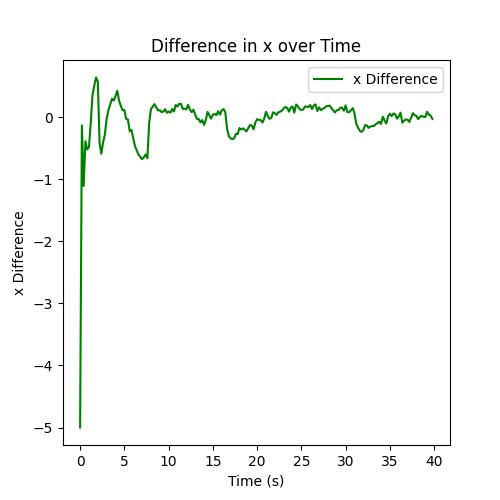
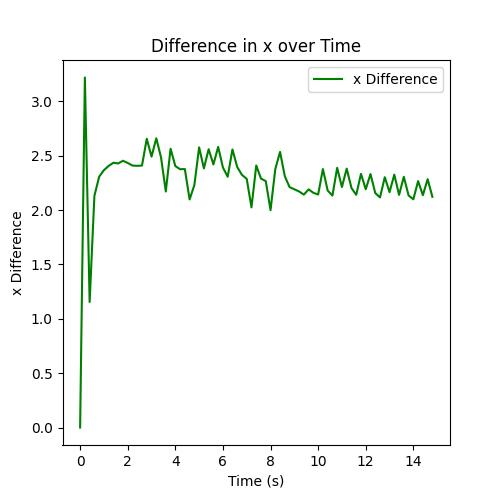
add tighten constraint

diff --git a/Controller/simple_rmpc.py b/Controller/simple_rmpc.py
@@ -1,0 +1,179 @@
+"""Here, tighten the constraints for the system
+"""
+from casadi import *
+import numpy as np
+from scipy.linalg import solve_discrete_are,sqrtm
+from scipy.stats import norm
+# using np to calculate the LQR gain
+def calculate_Dlqr(A,B,Q,R):
+    """return LQR gain matrix
+
+    Args:
+        A B (np.array): state dynamics
+        Q R (np.array): cost matrix
+
+    Returns:
+        _type_: _description_
+    """
+    P=solve_discrete_are(A,B,Q,R)
+    temp=np.linalg.inv(B.T@P@B+R)
+    k=-temp@(B.T@P@A)
+    return P,k
+
+#calculate the system dynamics: X_next=A*X+B*U
+def calculate_system_dynamics(A,B,X,U):
+    """calculate the system dynamics: X_next=A*X+B*U
+
+    Args:
+        A B (np.array): state dynamics
+        X U (np.array): state and control input
+
+    Returns:
+        _type_: _description_
+    """
+    #check the dimension of x is 4X1 and u is 2X1
+    assert A.shape==(4,4)
+    assert B.shape==(4,2)
+    assert X.shape==(4,1)
+    assert U.shape==(2,1)
+    X_next=A@X+B@U
+    return X_next
+
+# calculate the system dynamics for N steps
+def calculate_system_dynamics_N(A,B,X,U,N):
+    """calculate the system dynamics for N steps
+
+    Args:
+        A B (np.array): state dynamics
+        X U (np.array): state and control input
+        N (int): predict horizon
+
+    Returns:
+        _type_: _description_
+    """
+    X_next=calculate_system_dynamics(A,B,X,U)
+    for i in range(N-1):
+        X_next=calculate_system_dynamics(A,B,X_next,U)
+    return X_next
+
+
+def calculate_P_next(A,B,K,P0,process_noise):
+    """calculate the P_next
+
+    Args:
+        A B (np.array): state dynamics
+        K (np.array): dlqr gain
+        P0 (np.array): covariance
+        process_noise (np.array): process noise
+
+    Returns:
+        _type_: _description_
+    """
+    assert A.shape==(4,4)
+    assert B.shape==(4,2)
+    assert P0.shape==(4,4)
+    assert process_noise.shape==(4,4)
+    P_next=(A+B@K)@P0@(A+B@K).T+process_noise
+    return P_next
+
+#calculate the P_next for N steps
+def calculate_P_next_N(A,B,K,P0,process_noise,N):
+    """calculate the P_next for N steps
+
+    Args:
+        A B (np.array): state dynamics
+        K (np.array): dlqr gain
+        P0 (np.array): covariance
+        process_noise (np.array): process noise
+        N (int): predict horizon
+
+    Returns:
+        _type_: _description_
+    """
+    assert A.shape==(4,4)
+    assert B.shape==(4,2)
+    assert P0.shape==(4,4)
+    assert process_noise.shape==(4,4)
+    P_next=calculate_P_next(A,B,K,P0,process_noise)
+    for i in range(N-1):
+        P_next=calculate_P_next(A,B,K,P_next,process_noise)
+    return P_next
+
+# calculate the new upper bound for the constraints
+def tightened_bound(sigma,h,b):
+    """with φ^-1 the inverse cumulative distribution function of the standard normal distribution
+
+    Args:
+        sigma (np.array): corvariance
+        h,b (np.array): hx<=b
+    """
+    assert sigma.shape==(4,4)
+    # calculate the tightening term
+    temp=sqrtm(h.T@sigma@h)@norm.ppf(Possibilty)
+    tighten_bound=b-temp
+    return tighten_bound
+
+#calculate the Nth tighten bound
+def tighten_bound_N(sigma,h,b,N):
+    """calculate the Nth tighten bound
+
+    Args:
+        sigma (np.array): corvariance
+        h,b (np.array): hx<=b
+        N (int): predict horizon
+    """
+    # calculate the tightening term
+    for i in range(N):
+        sigma=calculate_P_next(A,B,K,sigma,process_noise)
+        # print("eig value of sigma is:",np.linalg.eigvals(sigma))
+    tighten_bound=tightened_bound(sigma,h,b)
+    return tighten_bound
+
+
+
+
+nx=4
+nu=2
+#! P0 here is converged  kf covariance
+#! A,B here is the linearized system, and the system is constant velocity model at x=0,y=0, v=10m/s, theta=0
+x0=np.array([[0],[0],[10],[0]])
+P0 = np.array([[0.002071893043635329, -9.081755508401041e-07, 6.625835814018275e-06, 3.5644803460420476e-06],
+            [-9.081755508401084e-07, 0.0020727698104820867, -1.059020050149629e-05, 2.218506297137566e-06], 
+            [6.625835814018292e-06, -1.0590200501496282e-05, 0.0020706909538251504, 5.4487618678242517e-08], 
+            [3.5644803460420577e-06, 2.2185062971375356e-06, 5.448761867824289e-08, 0.002071025561957967]])
+
+print("check the eig value of P0", numpy.linalg.eigvals(P0))
+A=np.array([[1.0, 0.0, -0.15072664142860284, -0.0038424017710879006], 
+            [0.0, 1.0, 0.13145904139180914, -0.004405572320044926], 
+            [0.0, 0.0, 1.0, 0.0], 
+            [0.0, 0.0, 0.0008723107079130039, 1.0]])
+B=np.array([[0.0, 0.0], 
+            [0.0, 0.0], 
+            [0.0, 0.2], 
+            [0.017606115703087965, 0.0]])
+D=np.eye(nx)  # noise matrix
+Q=np.eye(nx)  # cost matrix
+R=np.eye(nu)  # cost matrix  for input
+process_noise=np.eye(4)*0.05**2  # process noise
+# noise here should check with erik
+process_noise[0,0]=0.5  # x bound is [0, 3]
+# process_noise[1,1]=0.01  # y bound is [0, 0.1]
+process_noise[2,2]=1.8/6  # v bound is [0, 1.8]
+# process_noise[3,3]=0.01  # psi bound is [0, 0.05]
+# Predict Horizon
+N=8
+# calcuate the dlqr gain
+_,K=calculate_Dlqr(A,B,Q,R)
+
+
+# stochastic mpc parameters
+Possibilty=np.ones([4,1])*0.8
+#calculate the X_next_N
+X_next_N=calculate_system_dynamics_N(A,B,x0,np.zeros([2,1]),N)
+# initial upper bound of the constraints
+h=np.eye(nx)
+b=np.array([[5000],[1.75],[30],[3.14/8]])  #no limit to the x, y should be in [-1.75, 1.75], v should be in [0,30], psi should be in [-3.14/8,3.14/8]
+#tighten the bound
+tighten_bound=tighten_bound_N(P0,h,b,N)
+print("the bound before tighten is:\n",b)
+print("tightened bound is:\n", tighten_bound_N(P0,h,b,N))

diff --git a/Test_func/test_kf_carla.py b/Test_func/test_kf_carla.py
@@ -20,30 +20,33 @@ from casadi import DM
 from vehicleModel.vehicle_model import car_VehicleModel
 from kalman_filter.kalman_filter import kalman_filter
 from util.utils import get_state, setup_carla_environment,plot_paths,plot_diff
-
+#save matrix to json file
+import os
+import json
 # ----------------- Carla Settings ------------------------
 #! set the initial position of the car and truck
 import carla
-car,truck = setup_carla_environment(Sameline_ACC=False)
+car,truck = setup_carla_environment(Sameline_ACC=True)
 velocity1 = carla.Vector3D(10, 0, 0)
 velocity2 = carla.Vector3D(15, 0, 0)
 
 #get initial state of truck and car,x,y,psi,v, shown seoerately
 #! uncomment the following lines to get the initial state of the car and truck
 #------------------get the initial state of the car and truck---------------------
-# time.sleep(1)
+time.sleep(1)
+car.set_target_velocity(velocity1)
 # truck_state = get_state(truck)
 # car_state = get_state(car)
 # print("truck_state is:","x:",truck_state[0],"y:",truck_state[1],"psi:",truck_state[2],"v:",truck_state[3])
 # print("car_state is:","x:",car_state[0],"y:",car_state[1],"psi:",car_state[2],"v:",car_state[3])
 # exit()
 #---------------------------------------------------------------------------------
-car.set_target_velocity(velocity2)
-car.apply_control(carla.VehicleControl(throttle=0.0, steer=0.5, brake=0))
+
+# car.apply_control(carla.VehicleControl(throttle=0.0, steer=0.0, brake=0))
 # System initialization 
 dt = 0.2
 N=10
-end_time = 40
+end_time = 15
 t_axis = np.arange(0, end_time, dt)
 # ----------------- Ego Vehicle Dynamics and Controller Settings ------------------------
 car_model = car_VehicleModel(dt,N, width = 2, length = 4)
@@ -52,7 +55,7 @@ int_opt = 'rk'
 car_model.integrator(int_opt,dt)
 F_x_ADV  = car_model.getIntegrator()
 vx_init_ego = 10   
-car_model.setInit([124,143.318],vx_init_ego)
+car_model.setInit([124-75,143.318146],vx_init_ego)
 x_iter = DM(int(nx),1)
 # get initial state and input
 x_iter[:],u_iter = car_model.getInit()
@@ -65,13 +68,13 @@ H=np.eye(nx)   #measurement matrix, y=H@x_iter
 
 # initial state and control input
 print(x_iter)
-x0=x_iter+5
+x0=x_iter
 print(x0)
-u_iter+=np.array([3.14/180,0.7*9.81])
+u_iter+=np.array([0,0])
 u0=u_iter
-sigma_process=0.1
-sigma_measurement=0.05
-P0=np.eye(nx)*(sigma_process)**4
+sigma_process=0.01
+sigma_measurement=0.01
+P0=np.eye(nx)*(100*sigma_process)**4
 Q0=np.eye(nx)*sigma_process**2
 R0=np.eye(nx)*sigma_measurement**2
 # initial the Kalman Filter
@@ -84,10 +87,14 @@ true_x = []
 true_x.append(float(x_iter[0]))
 true_y = []
 true_y.append(float(x_iter[1]))
+nominal_x = [float(x0[0])]
+nominal_y = [float(x0[1])]
 estimated_x = [float(x0[0])]
 estimated_y = [float(x0[1])]
-x_difference = [true_x[-1]-estimated_x[-1]]
-y_difference = [true_y[-1]-estimated_y[-1]]
+x_difference = [abs(nominal_x[-1]-estimated_x[-1])]
+y_difference = [abs(nominal_y[-1]-estimated_y[-1])]
+v_difference = []
+psi_difference = []
 
 
 # update animation
@@ -100,20 +107,58 @@ def update(frame):
     x_iter = get_state(car)
     measurement = H @ x_iter + r
     ekf.predict(u0, F, B)
+    #! get nominal state 
+    nominal = ekf.get_predict
     ekf.update(measurement)
     x_estimate = ekf.get_estimate
+    P_estimate = ekf.get_covariance
+    # print("P_estimate is:",P_estimate)
     car_model.update(x_estimate, u_iter)
     F, B = car_model.calculate_AB()
+    
     #save the true and estimated state  
     true_x.append(float(x_iter[0]))
     true_y.append(float(x_iter[1]))
+    nominal_x.append(float(nominal[0]))
+    nominal_y.append(float(nominal[1]))
     estimated_x.append(float(x_estimate[0]))
     estimated_y.append(float(x_estimate[1]))
-    x_diff = (true_x[-1] - estimated_x[-1])
-    y_diff = (true_y[-1] - estimated_y[-1])
+    
+    
+    
+    x_diff = (abs(estimated_x[-1] - nominal_x[-1]))
+    y_diff = (abs(estimated_y[-1] - nominal_y[-1]))
+    print("x_diff is:",x_diff,"y_diff is:",y_diff)
     x_difference.append(x_diff)
     y_difference.append(y_diff)
     plot_paths(true_x, true_y,estimated_x, estimated_y,t)
+    
+    
+    # Convert F,B,P_estimate to a list of lists
+    F_np=np.array(F)
+    F_list=F_np.tolist()
+    B_np=np.array(B)
+    B_list=B_np.tolist()
+    P_estimate_np = np.array(P_estimate)
+    P_estimate_list = P_estimate_np.tolist()
+
+    # Define the file path
+    file_path = os.path.join("C:", os.sep, "Users", "A490243", "Desktop", "Master_Thesis", "Data", "Converged_P.json")
+    # Write P_estimate to a JSON file
+    with open(file_path, 'w') as file:
+        json.dump(P_estimate_list, file)
+      
+    # Define the file path
+    file_path = os.path.join("C:", os.sep, "Users", "A490243", "Desktop", "Master_Thesis", "Data", "F_matrix.json")
+    # Write P_estimate to a JSON file
+    with open(file_path, 'w') as file:
+        json.dump(F_list, file)
+    
+    # Define the file path
+    file_path = os.path.join("C:", os.sep, "Users", "A490243", "Desktop", "Master_Thesis", "Data", "B_matrix.json")
+    # Write P_estimate to a JSON file
+    with open(file_path, 'w') as file:
+        json.dump(B_list, file)
 
 # -------start animation----------------
 fig = plt.figure(figsize=(5, 5))

diff --git a/util/utils.py b/util/utils.py
@@ -49,12 +49,12 @@ def setup_carla_environment(Sameline_ACC=True):
     if Sameline_ACC :
         # Spawn Tesla Model 3
         car_bp = bp_lib.find('vehicle.tesla.model3')
-        car_spawn_point = carla.Transform(carla.Location(x=124-100, y=143.318146, z=0.3))
+        car_spawn_point = carla.Transform(carla.Location(x=124-75, y=143.318146, z=0.3))
         car = spawn_vehicle(world, car_bp, car_spawn_point)
 
         # Spawn Firetruck
         truck_bp = bp_lib.find('vehicle.carlamotors.firetruck')
-        truck_spawn_point = carla.Transform(carla.Location(x=124-75, y=143.318146, z=0.3))
+        truck_spawn_point = carla.Transform(carla.Location(x=10, y=143.318146, z=0.3))
         truck = spawn_vehicle(world, truck_bp, truck_spawn_point)
         return car, truck
     else:
@@ -91,7 +91,7 @@ def plot_paths(true_x, true_y,estimated_x, estimated_y,t):
     plt.scatter(estimated_x[-1], estimated_y[-1], color='red', s=50)
     plt.title(f"Time: {t:.2f}s - Paths")
     plt.legend()
-    plt.gca().invert_xaxis()
+    # plt.gca().invert_xaxis()
 
 
 def plot_diff(t_axis,x_difference,y_difference):

diff --git a/vehicleModel/vehicle_model.py b/vehicleModel/vehicle_model.py
@@ -58,7 +58,7 @@ class car_VehicleModel(vehBicycleKinematic):
     #! rewrite the model from vehBicycleKinematic to car_VehicleModel
     def model(self):
         # System dynamics model
-        # x = [x_a y_a v_vx theta_1 theta_2]
+        # x = [x_a y_a v_vx theta]
         # u = [steer acc]
         dp_xb = self.x[2] *cos(self.x[3])
         dp_yb = self.x[2] * sin(self.x[3])

diff --git a/kalman_filter/kalman_filter.py b/kalman_filter/kalman_filter.py
@@ -57,4 +57,13 @@ class kalman_filter():
     @property
     def get_covariance(self):
         return self.P
+    @property
+    def get_F_matrix(self):
+        return self.F
+    @property
+    def get_B_matrix(self):
+        return self.B
+    @property
+    def get_predict(self):
+        return self.x
     
